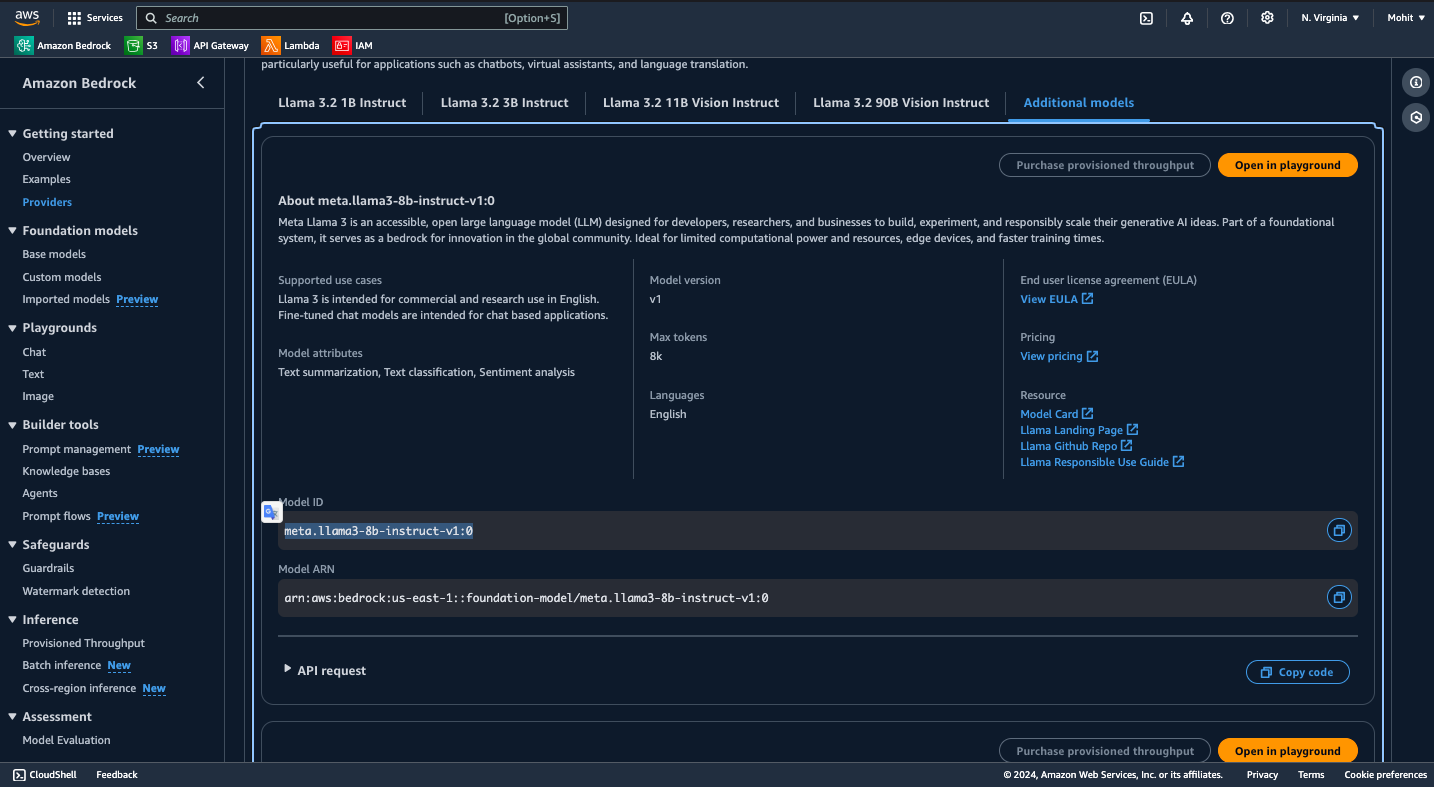
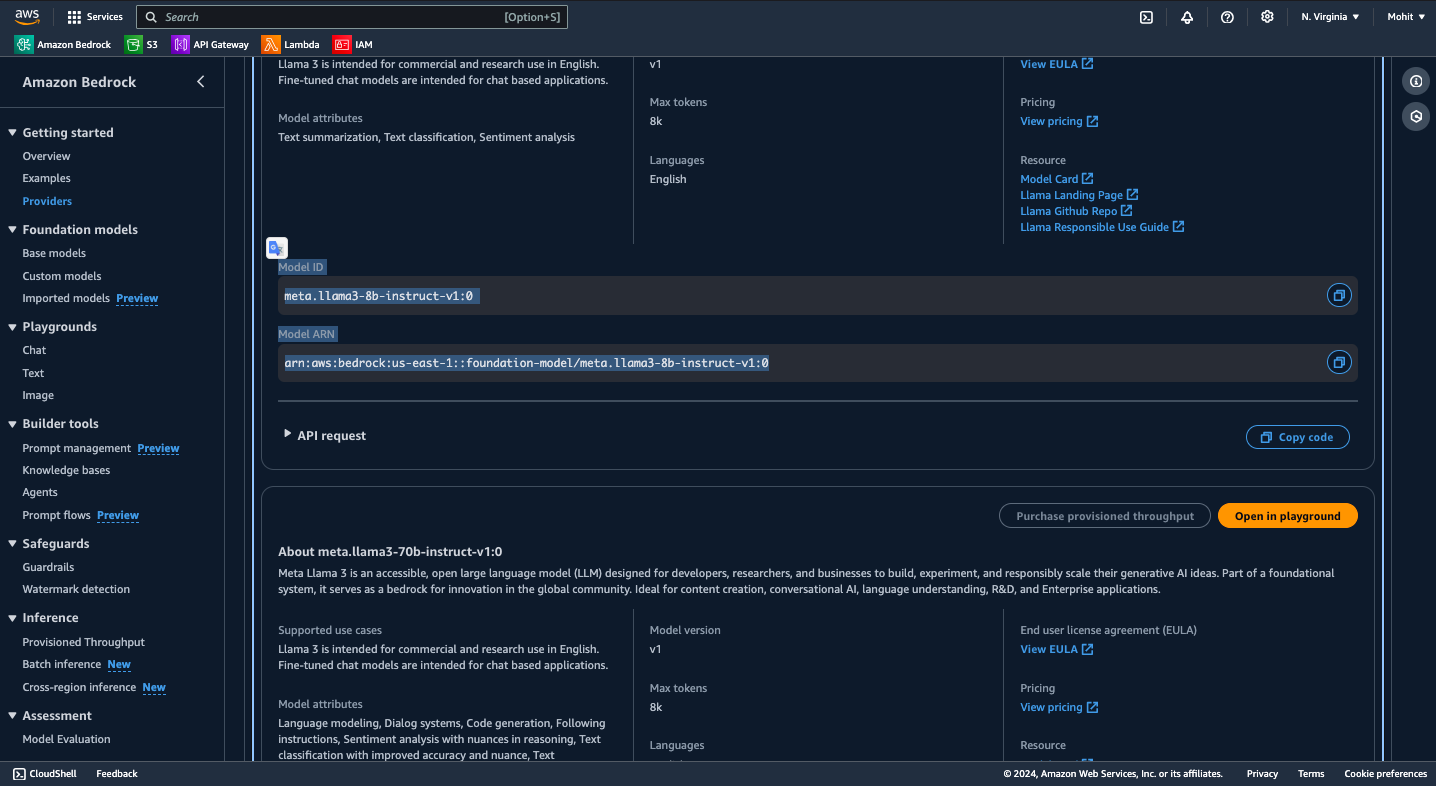
updated

diff --git a/README.md b/README.md
@@ -1,12 +1,10 @@
 # Serverless Blog Creation with AWS Bedrock, Lambda, S3 & API Gateway
 
-![Main](images/MAIN.png)
-
 ## Overview
 
 This project is an AWS Lambda function that leverages the `meta.llama3-8b-instruct-v1:0` model from AWS Bedrock to generate blog content based on user-defined topics. The generated content is then saved to an Amazon S3 bucket for easy access and management. The function supports customizable blog lengths, keyword inclusion for SEO, and generates metadata for each blog post.
 
-![AWS-BEDROCK-META](images/AWS-BEDROCK-META.png)
+![Main](images/MAIN.png)
 
 ## Features
 
@@ -56,6 +54,103 @@ Before running the Lambda function, set the following environment variables:
 - **`AWS_REGION`**: The AWS region where your services are located (default: `us-east-1`).
 - **`MODEL_ID`**: The ID of the Bedrock model to use for blog generation (default: `meta.llama3-8b-instruct-v1:0`).
 - **`S3_BUCKET`**: The name of the S3 bucket where the generated blog content will be stored (default: `blog-generation-s3bucket`).
+
+## Amazon S3 Bucket Setup
+
+Amazon S3 is a scalable object storage service that allows you to store and retrieve any amount of data at any time. Below are the steps to set up an S3 bucket and configure its properties.
+
+### Step 1: Accessing S3 and Creating a Bucket
+
+![S3 Bucket Creation](./images/AWS-S3-BUCKET-1.png)
+
+Navigate to the **Amazon S3** service from the AWS Management Console. Buckets in S3 are used to store objects, and they act as containers for your data.
+
+- To create a new bucket, click **Create bucket**.
+- You will see a list of existing buckets, if any, under your account. For example, the bucket `blog-generation-s3bucket` is shown in the image above.
+- Each bucket is region-specific, and in this case, the bucket is located in the **US East (N. Virginia)** region.
+
+### Step 2: Configuring the S3 Bucket
+
+![S3 Bucket Configuration](./images/AWS-S3-BUCKET-2.png)
+
+When creating a new S3 bucket, you'll need to configure its settings:
+
+- **Bucket Type:** Choose between general-purpose and directory buckets. General-purpose buckets are recommended for most use cases and allow for a mix of storage classes.
+- **Bucket Name:** Enter a globally unique name for your bucket. For example, `blog-generation-s3bucket` is the name used in this setup.
+- **Object Ownership:** You can choose to disable Access Control Lists (ACLs) for the bucket, meaning all objects are owned by the bucket's AWS account, and access is controlled via policies.
+
+### Step 3: Adding Tags and Enabling Encryption
+
+![S3 Bucket Tags and Encryption](./images/AWS-S3-BUCKET-3.png)
+
+After the initial configuration, you can add additional properties to your bucket:
+
+- **Tags (Optional):** Tags can help organize and track storage costs by assigning metadata to your bucket.
+- **Encryption:** Server-side encryption is automatically applied to all objects stored in the bucket. You can choose between:
+  - **SSE-S3 (Amazon S3 Managed Keys)**
+  - **SSE-KMS (AWS Key Management Service Keys)**
+  - **DSSE-KMS (Dual-layer encryption with AWS KMS)**
+
+### Step 4: Uploading Objects to the Bucket
+
+![S3 Object Management](./images/AWS-S3-BUCKET-4.png)
+
+Once the bucket is created, you can start uploading objects:
+
+- In the **Objects** tab, you will see a list of files and folders stored in the bucket. For example, the folder `blog-output/` is present in the `blog-generation-s3bucket`.
+- You can upload files and create folders using the **Actions** menu.
+- Each object stored in S3 has a unique S3 URI and URL that you can copy for reference or downloading.
+
+## Amazon Bedrock Setup
+
+Amazon Bedrock is a fully managed service that provides access to foundation models (FMs) from leading AI startups and Amazon, allowing you to build and scale generative AI applications without managing any infrastructure. Below are the steps to get started with Amazon Bedrock:
+
+### Step 1: Overview of Amazon Bedrock
+
+![Amazon Bedrock Overview](./images/AWS-BEDROCK-1.png)
+
+Navigate to the **Amazon Bedrock** service on AWS. Amazon Bedrock offers a fully managed environment that enables you to access foundation models via an API. Some key benefits include:
+
+- **Scalability:** Quickly scale generative AI applications using foundation models without managing infrastructure.
+- **Variety of Models:** Choose from a wide range of models from providers like Anthropic, Stability AI, and Amazon, ensuring you select the model that fits your specific use case.
+- **Serverless Experience:** Bedrock’s serverless model allows you to customize FMs with your own data and easily integrate them into your applications using familiar AWS tools.
+
+Click **Get started** to begin setting up your environment.
+
+### Step 2: Choosing a Foundation Model
+
+![Foundation Model Selection](./images/AWS-BEDROCK-2.png)
+
+After accessing Amazon Bedrock, you will need to select a foundation model. The platform offers multiple models for different use cases:
+
+- **Meta Llama 3:** This model is designed for content creation, conversational AI, language understanding, and research & development.
+- **Model Variants:** Llama 3 models are available in various configurations, including 70B and 8B parameter sizes. These are optimized for different tasks such as text summarization, sentiment analysis, code generation, and more.
+
+Once you have selected the model best suited for your use case, you can further customize it or use it as-is.
+
+### Step 3: Model Details and Customization
+
+![Model Customization](./images/AWS-BEDROCK-META.png)
+
+Each model comes with specific attributes and customization options. For example:
+
+- **Llama 3 Model Attributes:** This model supports tasks such as language modeling, dialog systems, and code generation.
+- **Max Tokens:** Some models have a max token limit (e.g., 8K tokens for Llama 3).
+- **Custom Models:** You can also create custom models or import models from external sources to fit your specific needs.
+
+You can experiment with the models directly in the **Playgrounds** section or by using the provided **API**.
+
+### Step 4: Model Usage and Deployment
+
+Amazon Bedrock provides built-in support for deploying models securely and at scale using AWS services. Use familiar AWS tools like **Lambda** and **API Gateway** to integrate the models into your applications, allowing for seamless deployment.
+
+Additionally, Bedrock offers features such as **provisioned throughput**, **cross-region inference**, and **batch inference**, making it easier to optimize performance based on your workload.
+
+### Step 5: Accessing Model APIs and Pricing Information
+
+After configuring your model, you can access the **API Request** options from the Bedrock console to test and deploy it. Additionally, ensure that you review the pricing details for the selected model to understand the costs associated with using Bedrock in your environment.
+
+---
 
 ### IAM Permissions
 
@@ -141,6 +236,7 @@ To create a Lambda function, go to the AWS Lambda console and select **Create fu
 - **Use a blueprint:** Use predefined templates for common use cases.
 
 **Basic Information:**
+
 - **Function Name:** Enter a descriptive name for your function (e.g., `blog-generation-bedrock`).
 - **Runtime:** Choose a programming language; for this project, select **Python 3.10**.
 - **Architecture:** Select the desired architecture, either `x86_64` or `arm64`.
@@ -152,6 +248,7 @@ To create a Lambda function, go to the AWS Lambda console and select **Create fu
 Creating Lambda layers allows for better code management and sharing of libraries. Go to the **Layers** section within the Lambda console and select **Create layer**. 
 
 **Layer Creation:**
+
 - **Name:** Choose a name for the layer (e.g., `boto3-layer`).
 - **Description:** Provide a brief description of the layer's purpose.
 - **Upload a .zip file:** Upload a ZIP file containing the necessary libraries.
@@ -185,6 +282,7 @@ Once your layer is created, go back to your Lambda function configuration. In th
 ![Lambda Environment Configuration](images/AWS-LAMBDA-LAYER-2.png)
 
 Configure environment variables such as:
+
 - `AWS_REGION`
 - `MODEL_ID`
 - `S3_BUCKET`
